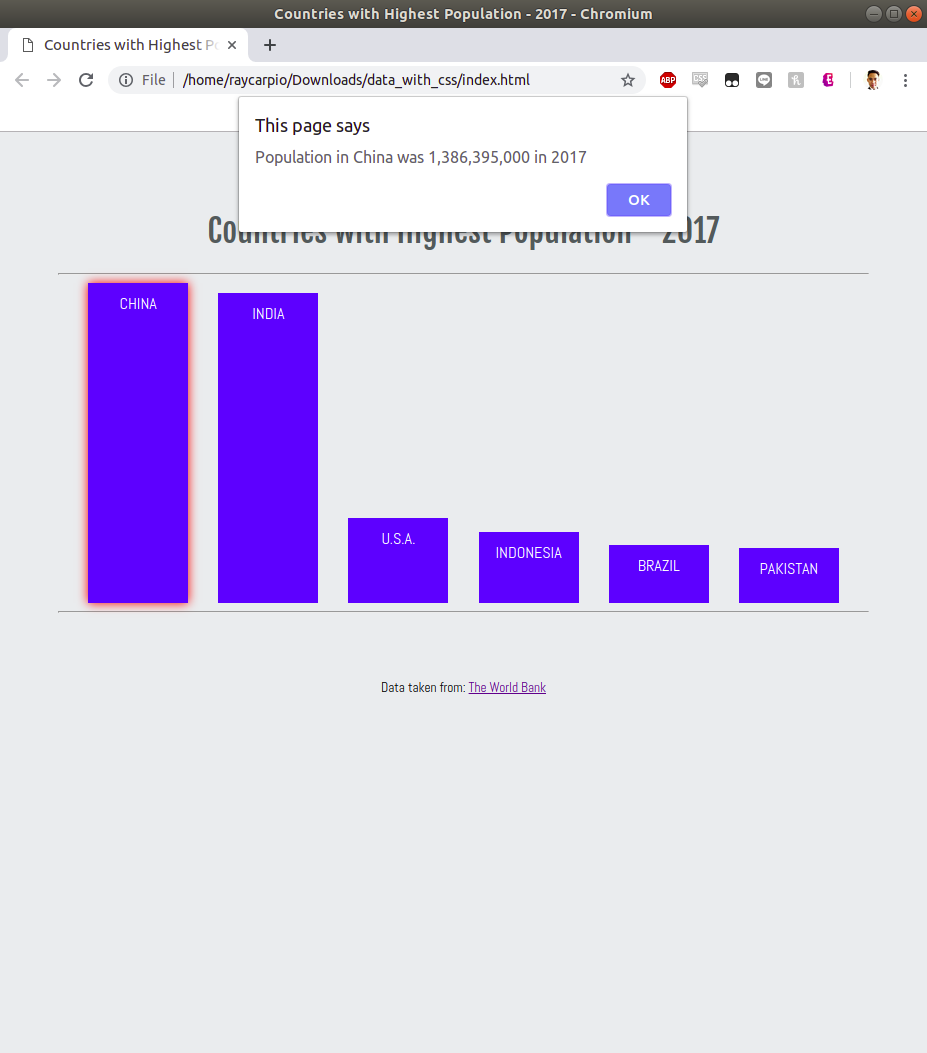
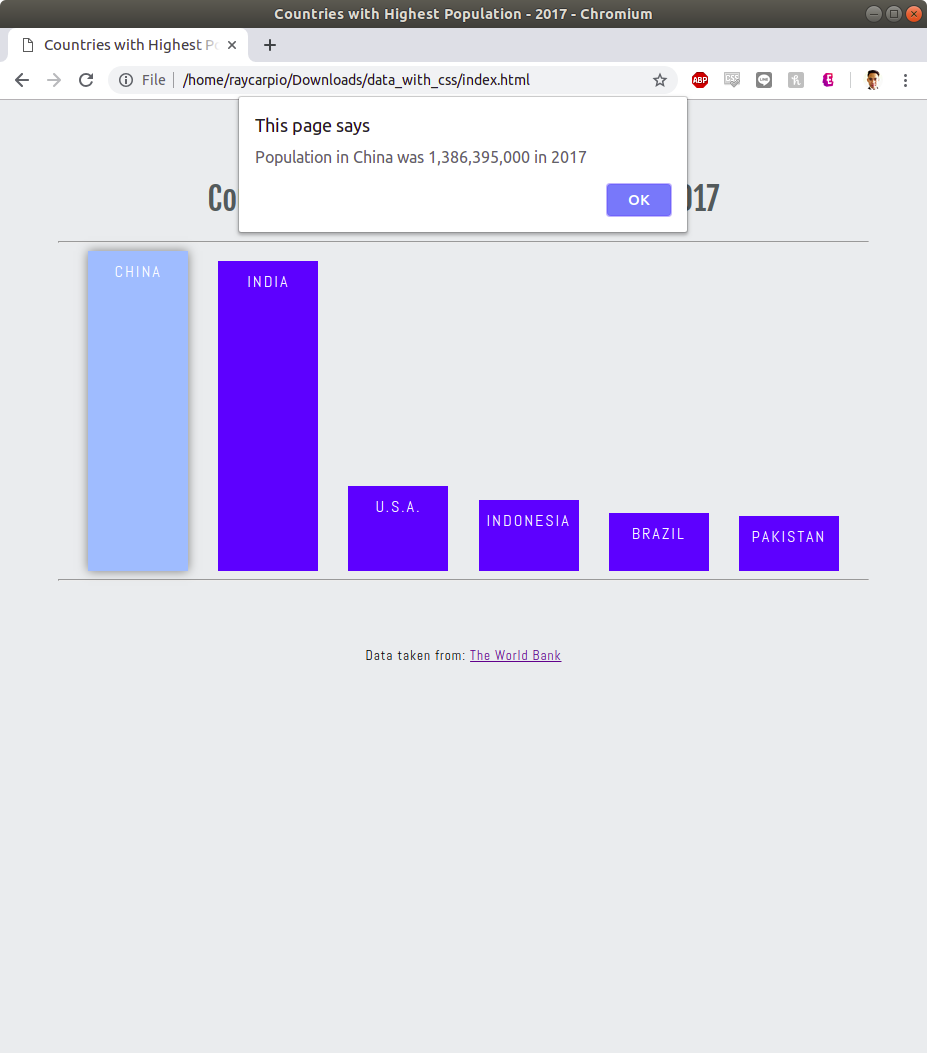
few css tweaks

diff --git a/css/style.css b/css/style.css
@@ -25,6 +25,7 @@ h5 {
     text-align: center;
     font-family: var(--page-font);
     font-weight: normal;
+    letter-spacing: 1px;
 }
 
 
@@ -36,17 +37,22 @@ h5 {
 }
 
 div.BarChart-bar {
-    background-color: blue; 
+    background-color: #0000ff; 
     font-family: var(--page-font);
     color: white;
     width: 100px;
     text-align: center;
     padding-top: 10px;
     text-transform: uppercase;
+    letter-spacing: 2px;
     cursor: pointer; 
     
 }
 
 .BarChart-bar:hover {
-    box-shadow: 0 0 10px red;
+    box-shadow: 0 0 10px gray;
+    background-color: #99ccff;
+    transition: background-color 0.2s;    
+            
 }
+
